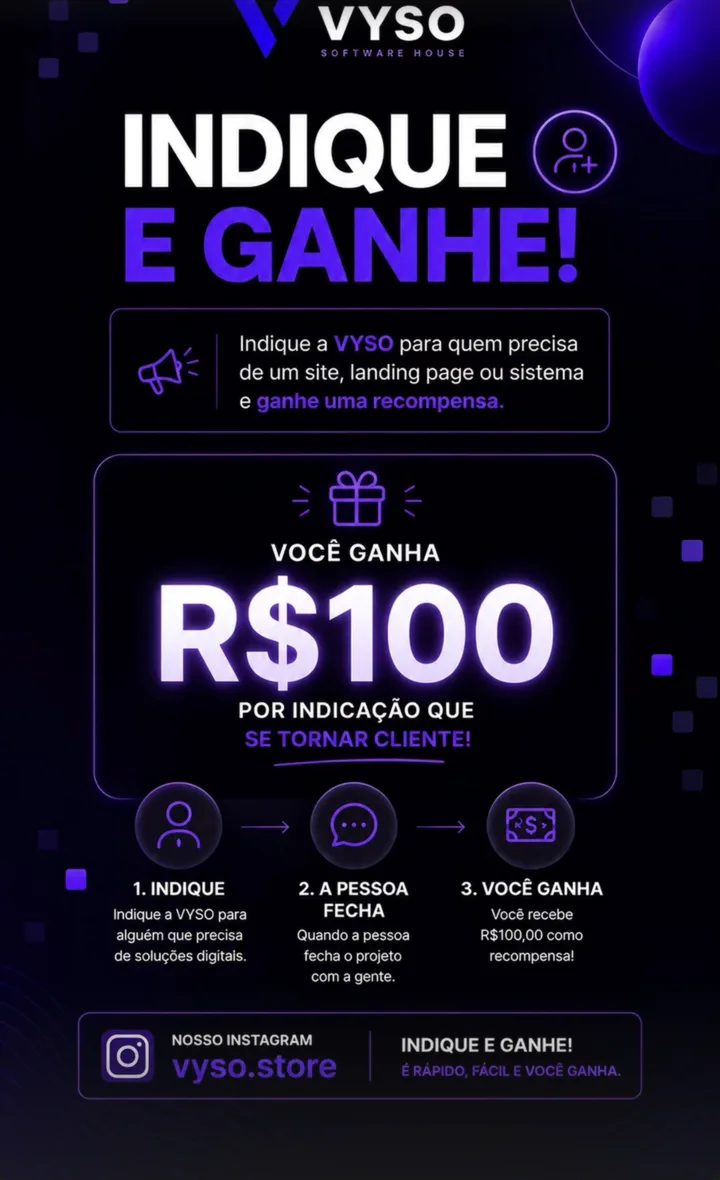
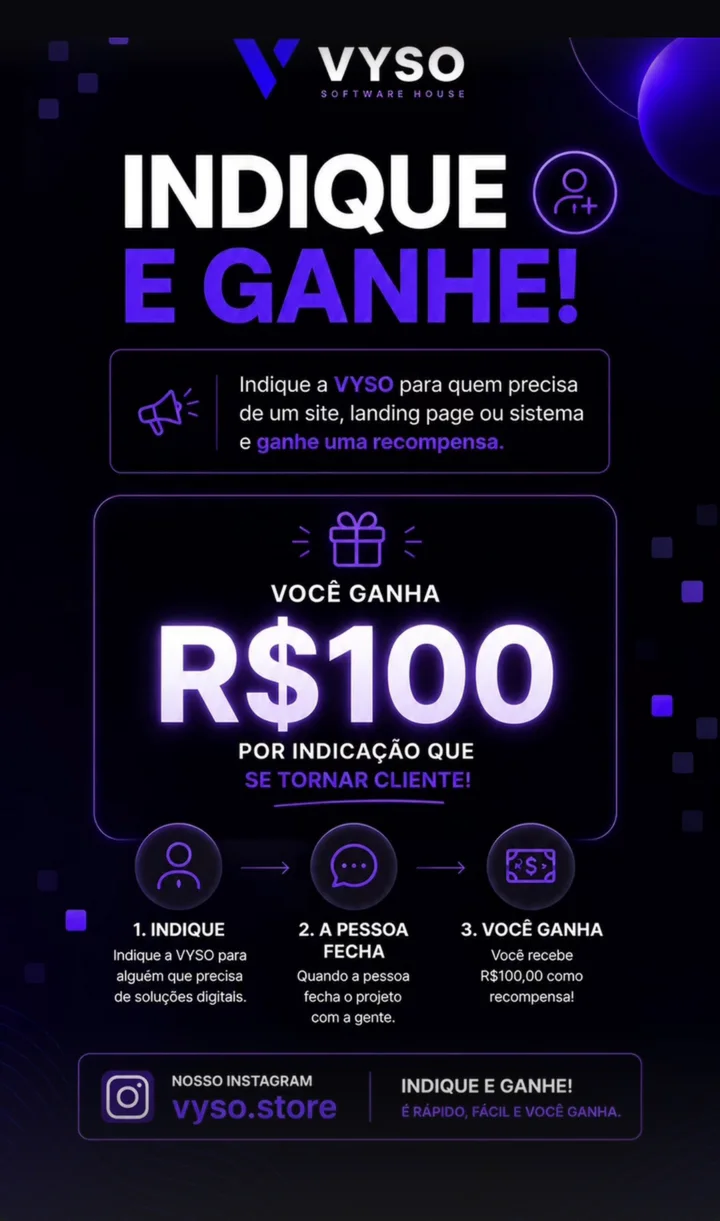
fix(v2): celular dos cards reduzido por escala, depoimentos inteiros e ajustes de leitura no celular
- Mockup de celular nos cards com o modelo original reduzido por escala,
  sem distorcer; carrossel do celular com todos os cards da mesma altura
- Prints dos depoimentos recortados de novo sem cortar a logo, e moldura
  que mostra a imagem inteira (vídeo em 9:16)
- Celular: menos espaço entre as seções, selo de frete centralizado
- Texto de apoio mais escuro no tema claro; V da VYSO centralizado no badge

diff --git a/v2/src/components/sections/Projects.tsx b/v2/src/components/sections/Projects.tsx
@@ -62,11 +62,14 @@ export function ProjectCard({
           texto. Aparelho 9:19 é quase o dobro da altura de um browser 16:10: o
           celular fica menor que na página do case pra não estourar a linha, mas
           aparece inteiro. */}
-      {/* Área da imagem com altura FIXA em todo card: a do celular no tamanho
-          original (11rem) define a medida, e os prints de navegador ficam centrados
-          nela. Assim o card do app não sai mais alto que os outros e o modelo do
-          aparelho não muda. */}
-      <div className="relative flex h-[25.5rem] flex-none items-center overflow-hidden px-6 pb-2 pt-12">
+      {/* Palco do mockup: absorve a altura extra da linha (flex-1). No carrossel do
+          celular tem altura fixa, pra todos os cards ficarem iguais. */}
+      <div
+        className={cn(
+          'relative flex items-center overflow-hidden px-6 pb-2 pt-12',
+          compacto ? 'h-64 flex-none sm:h-auto sm:flex-1' : 'flex-1'
+        )}
+      >
         <div
           className="pointer-events-none absolute inset-0"
           style={{
@@ -75,15 +78,37 @@ export function ProjectCard({
           }}
         />
         <div className="relative mx-auto w-full transition duration-500 group-hover:-translate-y-1 group-hover:scale-[1.02]">
-          <Mockup
-            variant={mockup ?? 'browser'}
-            src={cover}
-            alt={title}
-            url={live?.replace(/^https?:\/\//, '').replace(/\/$/, '')}
-            fallbackLabel={project.client}
-            fallbackLogo={project.logo}
-            className={cn('mx-auto', mockup === 'phone' && 'max-w-[11rem]')}
-          />
+          {mockup === 'phone' ? (
+            /* Celular: renderizado no tamanho ORIGINAL (11rem) e reduzido por escala,
+               como uma imagem. Borda, raio e entalhe do aparelho têm medida fixa:
+               diminuir a largura deixava o modelo torto. Escala 0,65 = altura do
+               print de navegador do card ao lado; 0,55 no carrossel do celular.
+               A caixa de fora tem o tamanho JÁ reduzido, porque escala não muda o
+               espaço que o elemento ocupa no layout. */
+            <div className="relative mx-auto h-[12.1rem] w-[6.05rem] sm:h-[14.3rem] sm:w-[7.15rem]">
+              <div className="absolute left-1/2 top-1/2 w-[11rem] -translate-x-1/2 -translate-y-1/2 scale-[0.55] sm:scale-[0.65]">
+                <Mockup
+                  variant="phone"
+                  src={cover}
+                  alt={title}
+                  url={live?.replace(/^https?:\/\//, '').replace(/\/$/, '')}
+                  fallbackLabel={project.client}
+                  fallbackLogo={project.logo}
+                  className="mx-auto max-w-[11rem]"
+                />
+              </div>
+            </div>
+          ) : (
+            <Mockup
+              variant={mockup ?? 'browser'}
+              src={cover}
+              alt={title}
+              url={live?.replace(/^https?:\/\//, '').replace(/\/$/, '')}
+              fallbackLabel={project.client}
+              fallbackLogo={project.logo}
+              className="mx-auto"
+            />
+          )}
         </div>
       </div>
 
@@ -102,11 +127,11 @@ export function ProjectCard({
           </div>
         </div>
 
-        <p className={cn('text-sm leading-relaxed text-muted-foreground', compacto && 'line-clamp-3 sm:line-clamp-none')}>
+        <p className={cn('text-sm leading-relaxed text-muted-foreground', compacto && 'line-clamp-3 min-h-[4.6rem] sm:line-clamp-none sm:min-h-0')}>
           {summary}
         </p>
 
-        <div className="flex flex-wrap gap-2">
+        <div className={cn('flex gap-2', compacto ? 'flex-nowrap overflow-hidden sm:flex-wrap' : 'flex-wrap')}>
           {project.tags.map((t) => (
             <span
               key={t}
@@ -303,7 +328,7 @@ export function ProjectGroups({
 
 export function Projects() {
   return (
-    <section id="projetos" className="relative mx-auto max-w-6xl px-6 py-20 md:py-24">
+    <section id="projetos" className="relative mx-auto max-w-6xl px-6 py-12 sm:py-20 md:py-24">
       <div className="flex flex-col gap-6 sm:flex-row sm:items-end sm:justify-between">
         <div className="flex flex-col gap-5">
           <Reveal>

diff --git a/v2/src/components/sections/Testimonials.tsx b/v2/src/components/sections/Testimonials.tsx
@@ -15,7 +15,12 @@ import {
 import { cn } from '@/lib/utils'
 
 /** Moldura de story: mesma proporção dos prints (720×1180). */
-const FRAME = 'aspect-[720/1180] w-full overflow-hidden rounded-2xl border border-border bg-card'
+/**
+ * Moldura sem proporção fixa: cada print aparece INTEIRO, na proporção dele
+ * (o Kawan pediu: nada cortado). O vídeo é 9:16, e o pôster dele também.
+ */
+const FRAME = 'w-full overflow-hidden rounded-2xl border border-border bg-card'
+const VIDEO_FRAME = 'aspect-[9/16] w-full overflow-hidden rounded-2xl border border-border bg-black'
 
 function VideoFrame({ t }: { t: Testimonial }) {
   // O vídeo tem ~10 MB: só baixa quando a pessoa toca no play.
@@ -28,7 +33,7 @@ function VideoFrame({ t }: { t: Testimonial }) {
         controls
         autoPlay
         playsInline
-        className={cn(FRAME, 'bg-black object-cover')}
+        className={cn(VIDEO_FRAME, 'object-contain')}
       />
     )
   }
@@ -37,9 +42,9 @@ function VideoFrame({ t }: { t: Testimonial }) {
       type="button"
       onClick={() => setPlaying(true)}
       aria-label={`Assistir o depoimento de ${t.name}`}
-      className={cn(FRAME, 'group relative block')}
+      className={cn(VIDEO_FRAME, 'group relative block')}
     >
-      <img src={t.image} alt="" loading="lazy" className="h-full w-full object-cover" />
+      <img src={t.image} alt="" loading="lazy" className="h-full w-full object-contain" />
       <span className="absolute inset-0 bg-gradient-to-t from-black/50 via-transparent to-transparent" />
       <span className="absolute left-1/2 top-1/2 grid h-16 w-16 -translate-x-1/2 -translate-y-1/2 place-items-center rounded-full bg-white/95 text-black shadow-xl transition-transform duration-300 group-hover:scale-110">
         <Play className="ml-1 h-7 w-7 fill-current" />
@@ -63,7 +68,7 @@ function Card({ t }: { t: Testimonial }) {
             alt={`Print do depoimento de ${t.name}: ${t.quote}`}
             loading="lazy"
             draggable={false}
-            className="h-full w-full object-cover"
+            className="block h-auto w-full"
           />
         </div>
       )}
@@ -80,7 +85,7 @@ function ReferralCard() {
           alt="Indique e ganhe: R$ 100 por indicação que se tornar cliente da VYSO"
           loading="lazy"
           draggable={false}
-          className="h-full w-full object-cover"
+          className="block h-auto w-full"
         />
       </div>
     </figure>
@@ -211,7 +216,7 @@ export function Testimonials() {
   }
 
   return (
-    <section id="depoimentos" className="relative overflow-hidden py-20 md:py-24">
+    <section id="depoimentos" className="relative overflow-hidden py-12 sm:py-20 md:py-24">
       <div aria-hidden className="ember-glow absolute -left-40 top-24 -z-10 h-[30rem] w-[30rem]" />
       <div className="mx-auto max-w-6xl px-6">
         <div className="flex flex-col gap-6 sm:flex-row sm:items-end sm:justify-between">
@@ -248,7 +253,7 @@ export function Testimonials() {
       {/* trilho alinhado à coluna do site, mas sangrando até a borda direita */}
       <div
         ref={track}
-        className="no-scrollbar mt-12 flex snap-x snap-mandatory gap-5 overflow-x-auto scroll-smooth pb-2"
+        className="no-scrollbar mt-12 flex items-start snap-x snap-mandatory gap-5 overflow-x-auto scroll-smooth pb-2"
         style={{
           paddingInline: 'max(1.5rem, calc((100vw - 72rem) / 2 + 1.5rem))',
           scrollPaddingInline: 'max(1.5rem, calc((100vw - 72rem) / 2 + 1.5rem))',

diff --git a/v2/src/components/sections/Hero.tsx b/v2/src/components/sections/Hero.tsx
@@ -115,7 +115,7 @@ export function Hero() {
   const total = projects.length
 
   return (
-    <section id="hero" className="relative overflow-hidden bg-background pb-16 pt-[7.5rem] md:pb-24 md:pt-36">
+    <section id="hero" className="relative overflow-hidden bg-background pb-8 pt-[7.5rem] sm:pb-16 md:pb-24 md:pt-36">
       <div aria-hidden className="ember-glow absolute -right-40 top-10 -z-0 h-[36rem] w-[36rem]" />
 
       <div className="relative mx-auto grid max-w-6xl grid-cols-1 items-center gap-10 px-6 lg:grid-cols-[1.05fr_1fr] lg:gap-10">
@@ -168,7 +168,7 @@ export function Hero() {
             className="flex flex-col gap-2.5"
           >
             {OFFER.map((item) => (
-              <li key={item} className="flex items-center gap-3 whitespace-nowrap text-[0.95rem] text-foreground/85 max-[359px]:text-[0.85rem]">
+              <li key={item} className="flex items-center gap-3 whitespace-nowrap text-[0.95rem] text-foreground/95 max-[359px]:text-[0.85rem]">
                 <span className="grid h-6 w-6 shrink-0 place-items-center rounded-full bg-accent/10 text-accent">
                   <Check className="h-3.5 w-3.5" strokeWidth={3} />
                 </span>
@@ -218,12 +218,14 @@ export function Hero() {
                 círculo e pela sobreposição, o "KFM" virava "KFI". */}
             <span className="flex shrink-0 -space-x-2.5">
               {[
-                { src: '/img/logos/kfm.webp', bg: '#fd8ede' },
-                { src: '/img/logos/vyso-loja.webp', bg: '#000000' },
+                // KFM encostada à esquerda (o "KFM" é largo, centrado o "M" some)
+                { src: '/img/logos/kfm.webp', bg: '#fd8ede', centro: false },
+                // V centralizado: a foto cobre um pouco da borda, mas o V fica no meio
+                { src: '/img/logos/vyso-loja.webp', bg: '#000000', centro: true },
               ].map((l, k) => (
                 <span
                   key={l.src}
-                  className="flex h-10 w-10 items-center justify-start overflow-hidden rounded-full pl-[5px] ring-2 ring-background"
+                  className={`flex h-10 w-10 items-center overflow-hidden rounded-full ring-2 ring-background ${l.centro ? 'justify-center' : 'justify-start pl-[5px]'}`}
                   style={{ backgroundColor: l.bg, zIndex: k + 1 }}
                 >
                   {/* encostada à esquerda: os 10px da direita ficam sob o círculo seguinte */}

diff --git a/v2/src/components/sections/Products.tsx b/v2/src/components/sections/Products.tsx
@@ -57,7 +57,8 @@ function ProductBlock({ product }: { product: Product }) {
       <div className="grid items-center gap-10 lg:grid-cols-2 lg:gap-14">
         <div className="flex flex-col items-start gap-6">
           {product.badge && (
-            <Reveal>
+            // centralizado no celular, à esquerda com o texto no computador
+            <Reveal className="self-center sm:self-auto">
               <span className="inline-flex items-center gap-2 rounded-full border border-accent/30 bg-accent/[0.08] px-3.5 py-1.5 font-mono-tag text-[0.65rem] uppercase tracking-[0.16em] text-accent">
                 <Sparkles className="h-3.5 w-3.5" />
                 {product.badge}
@@ -177,7 +178,7 @@ function ProductBlock({ product }: { product: Product }) {
  */
 export function Products() {
   return (
-    <section id="produtos" className="relative overflow-hidden py-20 md:py-24">
+    <section id="produtos" className="relative overflow-hidden py-12 sm:py-20 md:py-24">
       <div aria-hidden className="ember-glow absolute -left-40 top-24 -z-10 h-[30rem] w-[30rem]" />
       <div className="mx-auto max-w-6xl px-6">
         <div className="flex flex-col gap-6 sm:flex-row sm:items-end sm:justify-between">

diff --git a/v2/src/components/sections/About.tsx b/v2/src/components/sections/About.tsx
@@ -6,7 +6,7 @@ import { about, skills } from '@/data/content'
 
 export function About() {
   return (
-    <section id="sobre" className="relative mx-auto max-w-6xl px-6 py-20 md:py-24">
+    <section id="sobre" className="relative mx-auto max-w-6xl px-6 py-12 sm:py-20 md:py-24">
       <Reveal>
         <Kicker>{about.kicker}</Kicker>
       </Reveal>
@@ -28,7 +28,7 @@ export function About() {
 
           {/* Skills como lista técnica (não pills genéricas) */}
           <Reveal delay={0.2}>
-            <div className="flex flex-wrap gap-x-6 gap-y-2 pt-4 font-mono-tag text-sm text-foreground/80">
+            <div className="flex flex-wrap gap-x-6 gap-y-2 pt-4 font-mono-tag text-sm text-foreground/90">
               {skills.map((s) => (
                 <span key={s} className="inline-flex items-center gap-2">
                   <span className="text-accent">/</span>

diff --git a/v2/src/components/sections/Marquee.tsx b/v2/src/components/sections/Marquee.tsx
@@ -23,7 +23,7 @@ export function Marquee() {
         >
           {items.map((item, i) => (
             <span key={i} className="flex shrink-0 items-center gap-8">
-              <span className="font-display text-lg font-semibold text-foreground/80 sm:text-2xl md:text-3xl">
+              <span className="font-display text-lg font-semibold text-foreground/90 sm:text-2xl md:text-3xl">
                 {item}
               </span>
               <span className="text-lg text-accent md:text-2xl">✦</span>

diff --git a/v2/src/components/sections/Faq.tsx b/v2/src/components/sections/Faq.tsx
@@ -97,7 +97,7 @@ export function Faq() {
   const [open, setOpen] = useState<number | null>(0)
 
   return (
-    <section id="duvidas" className="relative overflow-hidden py-20 md:py-24">
+    <section id="duvidas" className="relative overflow-hidden py-12 sm:py-20 md:py-24">
       <FaqJsonLd />
       <div aria-hidden className="ember-glow absolute -right-40 top-16 -z-10 h-[30rem] w-[30rem]" />
       <div className="mx-auto grid max-w-6xl gap-12 px-6 lg:grid-cols-[0.85fr_1.15fr] lg:gap-16">

diff --git a/v2/src/components/sections/Support.tsx b/v2/src/components/sections/Support.tsx
@@ -198,7 +198,7 @@ export function Support() {
   }
 
   return (
-    <section id="suporte" className="relative overflow-hidden py-20 md:py-24">
+    <section id="suporte" className="relative overflow-hidden py-12 sm:py-20 md:py-24">
       <div aria-hidden className="ember-glow absolute -left-40 top-24 -z-10 h-[32rem] w-[32rem]" />
       <div className="mx-auto max-w-[90rem] px-6">
         <div className="flex flex-col gap-8 lg:flex-row lg:items-end lg:justify-between">

diff --git a/v2/src/components/sections/Founder.tsx b/v2/src/components/sections/Founder.tsx
@@ -7,7 +7,7 @@ import { founder, socials } from '@/data/content'
 
 export function Founder() {
   return (
-    <section id="founder" className="relative overflow-hidden py-20 md:py-24">
+    <section id="founder" className="relative overflow-hidden py-12 sm:py-20 md:py-24">
       <div
         aria-hidden
         className="ember-glow pointer-events-none absolute -right-24 top-10 -z-10 h-[32rem] w-[32rem]"

diff --git a/v2/src/components/sections/Contact.tsx b/v2/src/components/sections/Contact.tsx
@@ -35,7 +35,7 @@ export function Contact() {
   ].filter(Boolean) as Channel[]
 
   return (
-    <section id="contato" className="relative overflow-hidden py-20 md:py-24">
+    <section id="contato" className="relative overflow-hidden py-12 sm:py-20 md:py-24">
       <div
         aria-hidden
         className="ember-glow pointer-events-none absolute -left-32 bottom-0 -z-10 h-[34rem] w-[34rem]"

diff --git a/v2/src/index.css b/v2/src/index.css
@@ -369,7 +369,8 @@
   --secondary-foreground: 232 28% 12%;
 
   --muted: 235 25% 95%;
-  --muted-foreground: 230 12% 38%;
+  /* 30% (era 38%): texto de apoio mais escuro no fundo branco, ~9:1 de contraste */
+  --muted-foreground: 230 14% 30%;
 
   --border: 232 20% 89%;
   --input: 232 20% 89%;

diff --git a/v2/src/docs/STATUS.md b/v2/src/docs/STATUS.md
@@ -292,3 +292,6 @@ node scripts/preview-shot.mjs produtos 1440 1900          # confere uma seção 
 - **Hero no celular** (05/10/2026, tarde): texto primeiro (chip, título, parágrafo, botões em largura total) e os três prints em leque logo abaixo, a loja no centro e as outras inclinadas atrás. A lista de benefícios aparece só do `sm` pra cima (no celular ela já está na primeira pergunta do FAQ). Botão do WhatsApp sem quebra de linha até 320px.
 - **Cards de projeto**: área da imagem com altura fixa (`h-[25.5rem]`) em todo card, desktop e carrossel; o mockup de celular fica no tamanho original (`max-w-[11rem]`). Não diminua o celular pra igualar altura: o Kawan quer o modelo como era.
 - **Hero no celular, versão da referência do Kawan** (05/10/2026, 16h30): título, parágrafo, benefícios com check em círculo claro, botões em largura total, linha do fundador (logos de KFM e VYSO Loja + foto do Kawan sobrepostas, nome, "N projetos no portfólio" e um rabisco de três traços) e carrossel de prints (`MobileShowcase`: endereço do site, botão de abrir, seta pro próximo). O "+50 negócios atendidos" da referência NÃO entrou: número inventado. A colagem de três prints e o selo do fundador no topo valem do `sm` pra cima. A grade do hero precisa de `grid-cols-1` no celular, senão o carrossel estica a coluna e a página vaza pra direita.
+- **Mockup de celular nos cards**: renderizado no tamanho original (11rem) e reduzido por ESCALA (0,65 no computador, 0,55 no carrossel do celular), dentro de uma caixa com o tamanho já reduzido. Nunca diminua a largura da moldura: raio, borda e entalhe têm medida fixa e o aparelho fica torto. Carrossel do celular: área de imagem `h-64`, resumo com altura mínima de 3 linhas e tags numa linha só, todos os cards com a mesma altura.
+- **Prints dos depoimentos** recortados de novo (05/10/2026): corte de 145px só na barra do Instagram e 56px de respiro no topo com a cor de fundo do próprio print (o corte de 150px colava a logo VYSO na borda). Moldura sem proporção fixa: a imagem aparece inteira; o vídeo da Amanda tem moldura 9:16.
+- **Celular**: seções com `py-12` (era `py-20`), hero com `pb-8`; selo de frete centralizado. **Texto de apoio no claro** mais escuro: `--muted-foreground` 230 14% 30% (era 38%), ~9:1.
